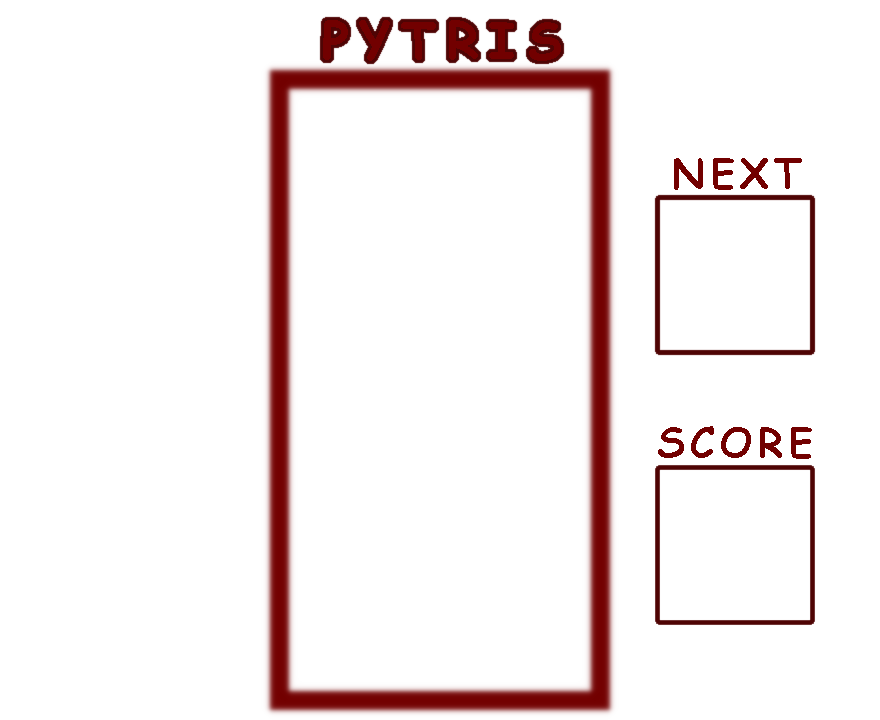
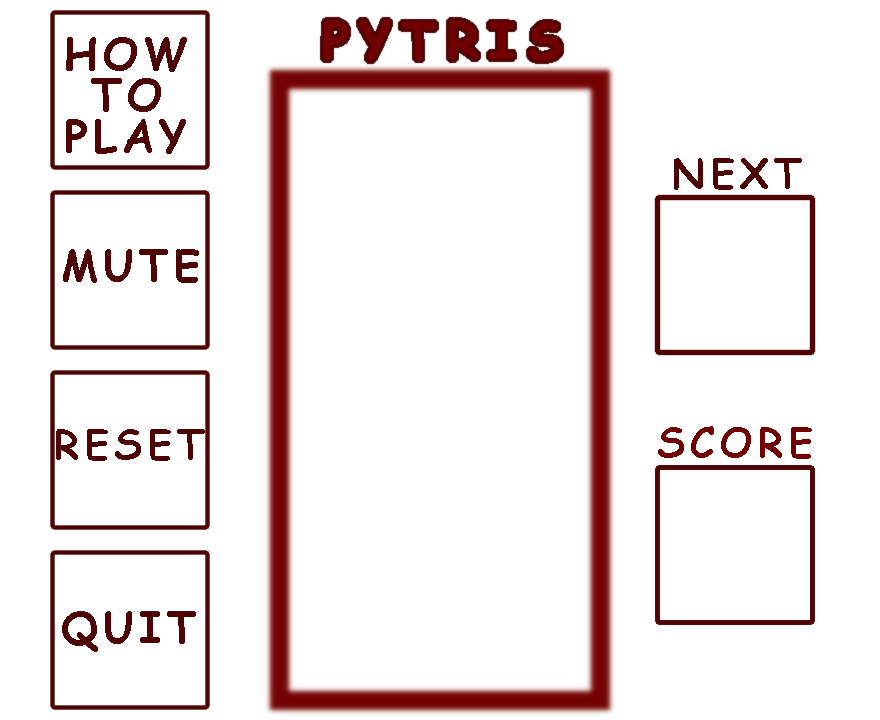
Add menu & navigation

diff --git a/pytris.py b/pytris.py
@@ -271,6 +271,7 @@ class Game():
 
     def start_game(self):
 
+        self.score = 0
         change_piece = False
         board = Board()
         curr_piece = Block(5, 0)
@@ -300,6 +301,21 @@ class Game():
                         curr_piece.rotation += 1
                         if not board.check_space(curr_piece):
                             curr_piece.rotation -= 1
+
+                if event.type == pygame.MOUSEBUTTONDOWN:
+                    position = pygame.mouse.get_pos()
+                    if position[0] >= 55 and position[0] <= 205:
+                        if position[1] >= 15 and position[1] <= 165:
+                            self.state = 2
+                            return None
+                        elif position[1] >= 195 and position[1] <= 345:
+                            return None
+                        elif position[1] >= 375 and position[1] <= 525:
+                            self.state = 0
+                            return None
+                        elif position[1] >= 555 and position[1] <= 705:
+                            self.state = 3
+                            return None
 
             fall_time += clock.get_rawtime()
             clock.tick()
